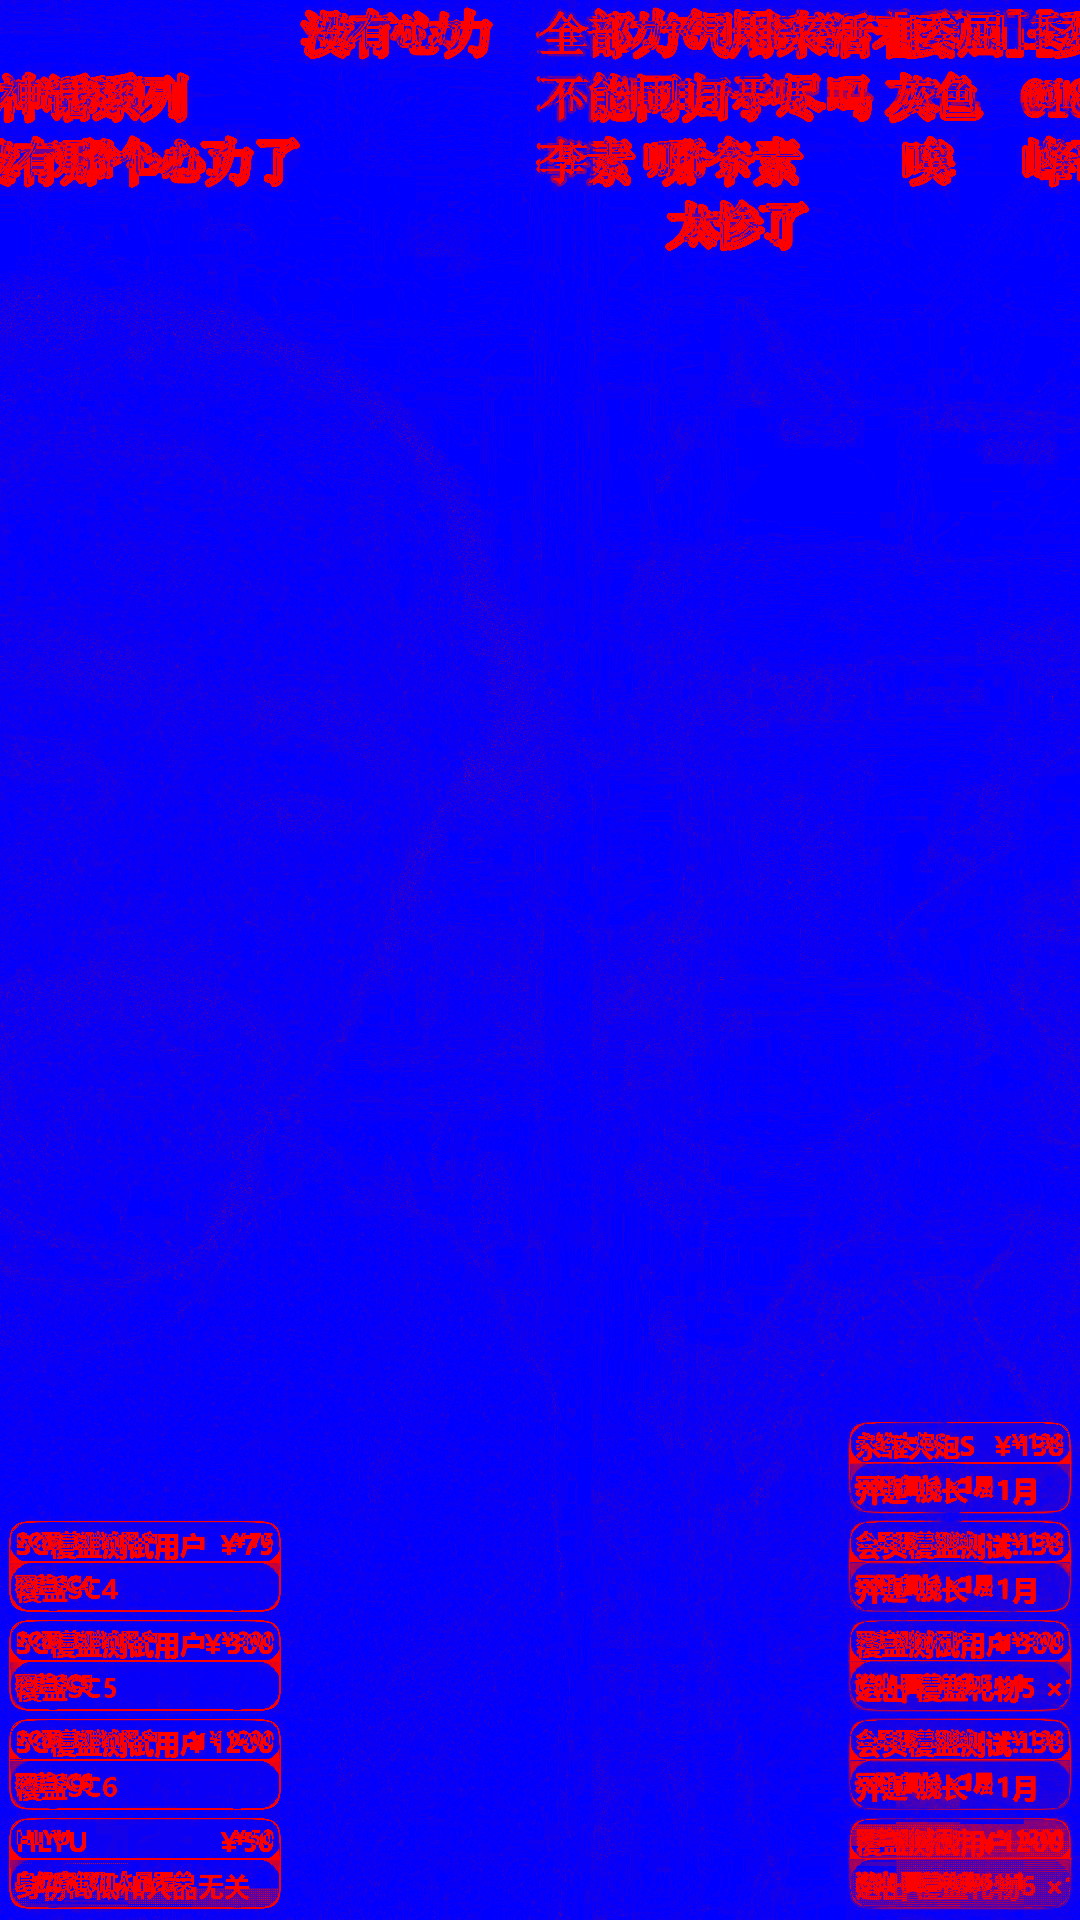
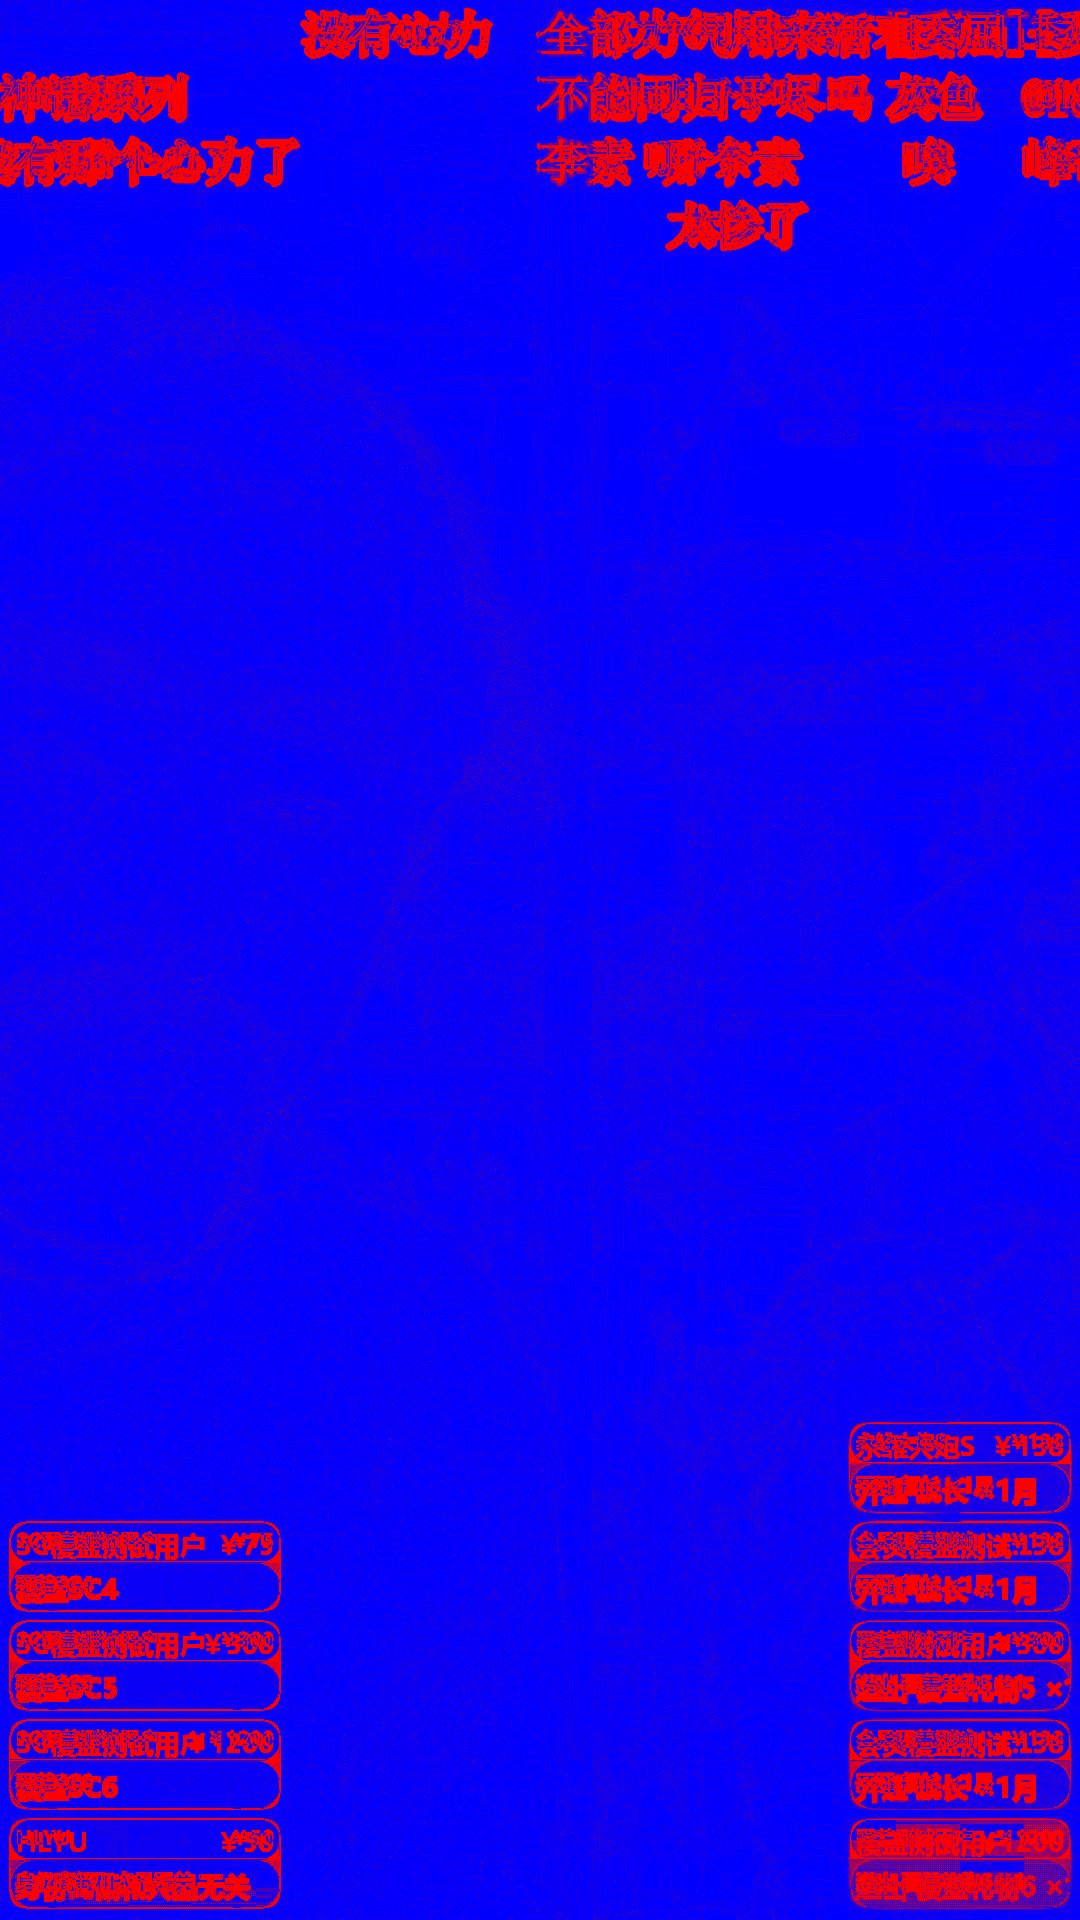
perf: complete GPU panel and VIP rendering checks

diff --git a/DMR/Render/gpu_render.py b/DMR/Render/gpu_render.py
@@ -34,7 +34,7 @@ PLAN_KERNEL = r"""
 extern "C" __global__
 void blend_plan(unsigned char* y, unsigned char* uv, int width, int height,
                 const int* px, const int* py, const int* offsets,
-                const int* widths, const int* heights, int count,
+const int* widths, const int* heights, const int* event_alpha, int count,
                 const unsigned char* sy, const unsigned char* su,
                 const unsigned char* sv, const unsigned char* sa) {
     int ux = blockIdx.x * blockDim.x + threadIdx.x;
@@ -52,7 +52,7 @@ void blend_plan(unsigned char* y, unsigned char* uv, int width, int height,
                 int sy_local = yy - py[event];
                 if (sx < 0 || sy_local < 0 || sx >= widths[event] || sy_local >= heights[event]) continue;
                 int index = offsets[event] + sy_local * widths[event] + sx;
-                int alpha = sa[index];
+                int alpha = (sa[index] * event_alpha[event] + 127) / 255;
                 value = (value * (255 - alpha) + sy[index] * alpha + 127) / 255;
             }
             y[yy * width + x] = (unsigned char)value;
@@ -70,7 +70,7 @@ void blend_plan(unsigned char* y, unsigned char* uv, int width, int height,
                 int sy_local = y0 + dy - py[event];
                 if (sx < 0 || sy_local < 0 || sx >= widths[event] || sy_local >= heights[event]) continue;
                 int index = offsets[event] + sy_local * widths[event] + sx;
-                int alpha = sa[index];
+                int alpha = (sa[index] * event_alpha[event] + 127) / 255;
                 alpha_sum += alpha;
                 u_sum += su[index] * alpha;
                 v_sum += sv[index] * alpha;
@@ -227,7 +227,7 @@ class EventScanner:
         self.active: set[int] = set()
         self.last_timestamp = float("-inf")
 
-    def visible(self, timestamp: float) -> list[tuple[dict[str, Any], int, int]]:
+    def visible(self, timestamp: float) -> list[tuple[dict[str, Any], int, int, int]]:
         """Advance the scanline and return active events in source order."""
         if timestamp < self.last_timestamp:
             raise ValueError("RenderPlan timestamps must be monotonic")
@@ -246,7 +246,15 @@ class EventScanner:
             event = self.events[index]
             position = event_position(event, timestamp)
             if position is not None:
-                visible.append((event, position[0], position[1]))
+                motion = event.get("motion") or {}
+                enter = max(0.0, float(motion.get("enter_duration", 0.0)))
+                exit_duration = max(0.0, float(motion.get("exit_duration", 0.0)))
+                alpha = 1.0
+                if enter and timestamp < float(event["start"]) + enter:
+                    alpha = max(0.0, min(1.0, (timestamp - float(event["start"])) / enter))
+                elif exit_duration and timestamp > float(event["end"]) - exit_duration:
+                    alpha = max(0.0, min(1.0, (float(event["end"]) - timestamp) / exit_duration))
+                visible.append((event, position[0], position[1], int(round(alpha * 255))))
         return visible
 
 
@@ -326,6 +334,7 @@ class SpriteCompositor:
         offsets = self.cupy.asarray([item[0]["offset"] for item in active], dtype=self.cupy.int32)
         widths = self.cupy.asarray([item[0]["width"] for item in active], dtype=self.cupy.int32)
         heights = self.cupy.asarray([item[0]["height"] for item in active], dtype=self.cupy.int32)
+        event_alpha = self.cupy.asarray([item[3] for item in active], dtype=self.cupy.int32)
         self.kernel(
             ((self.width // 2 + 31) // 32, (self.height // 2 + 7) // 8),
             (32, 8),
@@ -339,6 +348,7 @@ class SpriteCompositor:
                 offsets,
                 widths,
                 heights,
+                event_alpha,
                 self.cupy.int32(len(active)),
                 self.plan_assets["y"],
                 self.plan_assets["u"],

diff --git a/perf/prepare_gpu_plan.py b/perf/prepare_gpu_plan.py
@@ -35,7 +35,7 @@ def parse_color(value: str, default: str = "FFFFFF") -> tuple[int, int, int]:
 
 
 def panel_sprite(visual: dict[str, Any], width: int, height: int) -> Image.Image:
-    """Render gift panels with the same basic shapes as the legacy path."""
+    """Render panel nodes with configured fills, borders and text outlines."""
     image = Image.new("RGBA", (width, height), (0, 0, 0, 0))
     draw = ImageDraw.Draw(image)
     for node in sorted(visual.get("nodes", []), key=lambda item: item.get("layer", 0)):
@@ -46,10 +46,14 @@ def panel_sprite(visual: dict[str, Any], width: int, height: int) -> Image.Image
             h = int(node.get("height", height))
             alpha = int(255 * float(node.get("opacity", 1.0)))
             fill = parse_color(node.get("color", "#FFFFFF")) + (alpha,)
+            outline = parse_color(node.get("outline_color", "#000000"))
+            outline_alpha = int(255 * float(node.get("outline_opacity", 1.0)))
             draw.rounded_rectangle(
                 (x, y, x + w, y + h),
                 radius=int(node.get("radius", 0)),
                 fill=fill,
+                outline=outline + (outline_alpha,),
+                width=max(0, int(node.get("outline", 0))),
             )
         if node.get("type") == "text":
             family = str(node.get("font", "Microsoft YaHei"))
@@ -59,7 +63,15 @@ def panel_sprite(visual: dict[str, Any], width: int, height: int) -> Image.Image
             x = int(node.get("x", 0))
             y = int(node.get("y", 0))
             anchor = "ra" if node.get("anchor") == "top_right" else "la"
-            draw.text((x, y), node.get("text", ""), font=font, fill=fill, anchor=anchor)
+            draw.text(
+                (x, y),
+                node.get("text", ""),
+                font=font,
+                fill=fill,
+                anchor=anchor,
+                stroke_width=max(0, int(node.get("outline", 0))),
+                stroke_fill=parse_color(node.get("outline_color", "#000000")) + (255,),
+            )
     return image
 
 
@@ -114,6 +126,15 @@ def main() -> None:
             sprite = factories[factory_key].get_sprite(
                 visual.get("text", ""),
                 rgb,
+                pill=(
+                    {
+                        "color": list(parse_color(visual["pill"].get("color", "#FFC0CB"))),
+                        "pad": int(visual["pill"].get("padding", visual["pill"].get("pad", 6))),
+                        "border": int(visual["pill"].get("border", 1)),
+                    }
+                    if visual.get("pill")
+                    else None
+                ),
                 event_pack=image_pack or None,
                 outline=style.get("outline", 1),
                 outline_rgb=parse_color(style.get("outline_color", "#000000")),
@@ -135,6 +156,7 @@ def main() -> None:
             "start": float(path[0][0]) if path else 0.0,
             "end": float(path[-1][0]) if path else 0.0,
             "path": path,
+            "motion": visual.get("motion") or {},
         })
     np.savez_compressed(
         args.output / "sprites.npz",

diff --git a/DMR/Render/layout_compiler.py b/DMR/Render/layout_compiler.py
@@ -807,7 +807,7 @@ class LayoutCompiler:
         # 会走 libass，而带 Emoji 的 VIP 会走 Pillow，产生两套圆角、留白、
         # 描边透明度和文字基线。普通 dmrender 没有 Pillow 合成阶段，仍走 ASS。
         is_raster = (
-            self.engine == "emoji_dmrender" and pill is not None
+            self.engine in {"emoji_dmrender", "gpu_render"} and pill is not None
         ) or emoji_measurer.is_special(text, emoticon)
         measure = (
             (lambda value: emoji_measurer.measure(value, emoticon))
@@ -1081,7 +1081,7 @@ class LayoutCompiler:
         return {
             "id": event_id,
             "track": track,
-            "mode": "ass",
+            "mode": "raster" if self.engine == "gpu_render" else "ass",
             "bounds": {"width": box_width, "height": total_height},
             "path": [[float(start_at), 0.0, 0.0]],
             "visual": visual,

diff --git a/perf/prepare_phase1b2.py b/perf/prepare_phase1b2.py
@@ -67,7 +67,7 @@ def compile_plan(config_path: pathlib.Path, output: pathlib.Path) -> dict:
     config = Config(str(config_path))
     task = config.get_task_config("峰哥")
     render_args = dict(task["render_args"]["overlay"])
-    render_args["engine"] = "emoji_dmrender"
+    render_args["engine"] = "gpu_render"
     video = VideoInfo(
         path=str(VIDEO),
         dm_file_id=str(JSONL),
@@ -76,7 +76,7 @@ def compile_plan(config_path: pathlib.Path, output: pathlib.Path) -> dict:
     )
     result = LayoutCompiler(
         render_args,
-        engine="emoji_dmrender",
+        engine="gpu_render",
         engine_config=render_args,
     ).compile(video=video, events_path=str(JSONL), work_dir=str(output.parent))
     output.parent.mkdir(parents=True, exist_ok=True)

diff --git a/perf/results/phase1b2.md b/perf/results/phase1b2.md
@@ -2,10 +2,10 @@
 
 ## 六项汇报
 
-1. **改了什么**：新增 `perf/prepare_phase1b2.py` 生成配置 A/B 和持久化 RenderPlan，新增 `perf/compare_phase1b2.py` 计算无弹幕区域 PSNR、配置变化 MAD 和差异热力图；用 full_coverage 生成 E/G 两套输出；演示视频为 `演示视频/02_1b-2_文字画质对齐_左E右GPU.mp4` 和 `演示视频/03_1b-2_配置可调_左配置A右配置B.mp4`。
+1. **改了什么**：新增 `perf/prepare_phase1b2.py` 生成配置 A/B 和持久化 RenderPlan，新增 `perf/compare_phase1b2.py` 计算无弹幕区域 PSNR、配置变化 MAD 和差异热力图；修复 GPU 计划的 VIP pill、面板描边/文字描边和面板入退场 alpha；用 full_coverage 生成 E/G 两套输出；演示视频为 `演示视频/02_1b-2_文字画质对齐_左E右GPU.mp4` 和 `演示视频/03_1b-2_配置可调_左配置A右配置B.mp4`。
 2. **为什么这样改**：按最新评论要求，E/G 都使用源 25fps，避开 25→30 的 CFR 差异；配置 B 调整字体、字号、透明度、描边、速度和间距，验证 GPU 版是否跟随现有配置。
-3. **遇到的问题和解决办法**：GPU 首帧 PTS 为 0.16 秒，比较脚本对 G 采样时间减 0.16 秒；未掩盖该偏移。首轮未对齐时平均 PSNR 25.22dB，校正后为 34.63dB，仍低于 45dB，说明 GPU 的 NV12/颜色转换、编码码率和文字描边仍需继续对齐；本阶段不把它报告为通过。
-4. **意见和想法**：配置变化确实生效：E 的配置 A→B 五个采样点 MAD 为 10.05–16.24，G 为 8.15–13.97；字体、药丸字号、透明度、描边和 r2l 速度/间距均可见变化。热力图显示差异集中在文字/药丸边缘，同时有底图色彩差异。
+3. **遇到的问题和解决办法**：GPU 首帧 PTS 为 0.16 秒，比较脚本对 G 采样时间减 0.16 秒；未掩盖该偏移。校正后平均 PSNR 34.55dB，仍低于 45dB，说明 GPU 的 NV12/颜色转换、编码码率和文字描边仍需继续对齐；本阶段不把它报告为通过。
+4. **意见和想法**：配置变化确实生效：E 的配置 A→B 五个采样点 MAD 为 10.05–16.24，G 为 8.62–14.78；字体、药丸字号、透明度、描边和 r2l 速度/间距均可见变化。VIP 药丸截图（`G_vip_172s.png`）和面板入场中间帧（`G_fix_20_2s.png`）确认修复生效；热力图仍显示文字/药丸边缘和底图色彩差异。
 5. **整体看法**：全 GPU 链路仍保持约 15–16 秒、平均 CPU 低的性能优势，但当前文字/色彩画质验收未达标（无弹幕区域 PSNR <45dB），不能宣称 1b-2 完成。25fps 输出还会比 E 少约 0.7 秒，整数倍 CFR 和音画同步按新计划留给 1b-3。
 6. **给 Claude 的建议**：请优先审查 `perf/results/phase1b2_shots/baseline_E_vs_G_heatmap.png`、`variant_E_vs_G_heatmap.png` 和两个演示视频；下一步建议先统一 GPU/E 的色彩矩阵与 NVENC 码率，再处理字体 hinting/描边，随后按 1b-3 的 25→50 CFR 规则重测。
 
@@ -25,6 +25,10 @@
 ## 运行环境与状态
 
 - CPU：Intel(R) Core(TM) i7-14700KF；GPU：NVIDIA GeForce RTX 4070 Ti SUPER。
-- E/G 均使用源 25fps；G 基线 7525 帧、约 14.94 秒，G 变体约 16.14 秒。
+- E/G 均使用源 25fps；G 基线 7525 帧、约 15.12 秒，G 变体约 14.96 秒。
 - 自检前 gate：仅录制、无渲染，后台 CPU 约 3–4%；测试结束后已执行 `dmr_gate.py --reset`。
 - PR 评论失败排查见 `perf/results/pr_comment_issue.md`；由于 GitHub integration 403，完整汇报以本报告和提交为准。
+
+## 面板统一实现评估
+
+本轮先让 GPU RenderPlan 直接使用 `layout_compiler` 生成的 panel nodes，并在 `prepare_gpu_plan.py` 统一按节点绘制填充、圆角、边框和文字描边，同时让 kernel 使用入场/退场 alpha。把旧 E 的 ASS 面板也完全迁移到同一套 Pillow/SpriteFactory 实现，预计还需 1–2 小时，且会改变 E 的像素输出，必须重跑 full_coverage 的 E 基线后再比较；因此本轮没有擅自改动旧 E 的默认路径。
